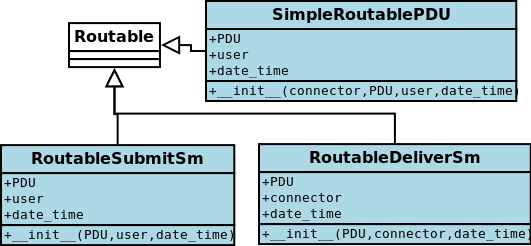
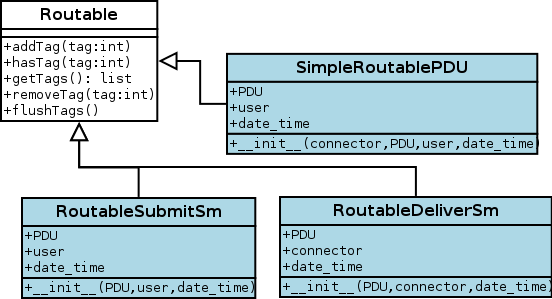
Close #301

diff --git a/misc/doc/sources/routing/index.rst b/misc/doc/sources/routing/index.rst
@@ -20,16 +20,16 @@ Process flow
 .. figure:: /resources/routing/routing-process.png
    :alt: MO and MT routing process flow
    :align: Center
-   
+
    Routing process flow
 
-There's one **MORoutingTable** and one **MTRoutingTable** objects holding respective routes for each direction (MT or MO), 
-these are **Route** objects that hold one or many **Filter** (s) objects and one destination **Connector** (or many connectors 
+There's one **MORoutingTable** and one **MTRoutingTable** objects holding respective routes for each direction (MT or MO),
+these are **Route** objects that hold one or many **Filter** (s) objects and one destination **Connector** (or many connectors
 in some specific cases, c.f. :ref:`Route_multiple_con`).
 
-As explained by the above routing process flow figure, for each message and depending on its direction, a routing table is 
-loaded and an iterative testing is run in order to select a final destination connector or to reject (returning no connector) it, 
-routes are selected in descendant order, and their respective filter objects are tested against the **Routable** object (It is an 
+As explained by the above routing process flow figure, for each message and depending on its direction, a routing table is
+loaded and an iterative testing is run in order to select a final destination connector or to reject (returning no connector) it,
+routes are selected in descendant order, and their respective filter objects are tested against the **Routable** object (It is an
 extension of the low-level SMPP PDU object representing a message, more information in :ref:`Route_Routable`).
 
 Examples
@@ -41,10 +41,10 @@ MO Routing
 Having the below MO routing table set through a jCli console session::
 
    jcli : morouter -l
-   #MO Route order   Type                    Connector ID(s)                  Filter(s)                                                       
-   #30               StaticMORoute           http_3                           <DestinationAddrFilter (dst_addr=^\+33\d+)>                     
+   #MO Route order   Type                    Connector ID(s)                  Filter(s)
+   #30               StaticMORoute           http_3                           <DestinationAddrFilter (dst_addr=^\+33\d+)>
    #20               RandomRoundrobinMORoute http_1, http_2                   <DateIntervalFilter (2015-06-01,2015-08-31)>, <TimeIntervalFilter (08:00:00,18:00:00)>
-   #0                DefaultRoute            http_def                                                                                         
+   #0                DefaultRoute            http_def
    Total MO Routes: 3
 
 The following routing cases are considered:
@@ -67,10 +67,10 @@ MT Routing
 Having the below MT routing table set through a jCli console session::
 
    jcli : mtrouter -l
-   #MT Route order   Type                    Rate    Connector ID(s)                  Filter(s)                                                       
-   #100              RandomRoundrobinMTRoute 0.00    smpp_1, smpp_2                   <DestinationAddrFilter (dst_addr=^\+33\d+)>                     
+   #MT Route order   Type                    Rate    Connector ID(s)                  Filter(s)
+   #100              RandomRoundrobinMTRoute 0.00    smpp_1, smpp_2                   <DestinationAddrFilter (dst_addr=^\+33\d+)>
    #91               StaticMTRoute           0.00    smpp_4                           <GroupFilter (gid=G2)>, <TimeIntervalFilter (08:00:00,18:00:00)>
-   #90               StaticMTRoute           0.00    smpp_3                           <GroupFilter (gid=G2)>                                          
+   #90               StaticMTRoute           0.00    smpp_3                           <GroupFilter (gid=G2)>
    Total MT Routes: 3
 
 The following routing cases are considered:
@@ -93,7 +93,7 @@ The following routing cases are considered:
 
 .. note:: Route's **rate** are discussed in :doc:`/billing/index`.
 
-Router components 
+Router components
 *****************
 
 The router components are mainly python objects having the unique responsibility of routing messages to Jasmin connectors.
@@ -108,14 +108,18 @@ The **Routable** class is extended by child classes to hold necessary informatio
 .. figure:: /resources/routing/Routable.png
    :alt: jasmin.routing.Routables.*
    :align: Center
-   
+
    jasmin.routing.Routables.*
 
-The **SimpleRoutablePDU** is only used for Jasmin unit testing, **RoutableSubmitSm** and **RoutableDeliverSm** are used depending 
+The **SimpleRoutablePDU** is only used for Jasmin unit testing, **RoutableSubmitSm** and **RoutableDeliverSm** are used depending
 on the message direction:
 
 * MO: **RoutableDeliverSm**
 * MT: **RoutableSubmitSm**
+
+All routables provide a tagging api through the *addTag()*, *hasTag()*, *getTags()*, *removeTag()*, *flushTags()* methods,
+this feature is mainly used in the :doc:`interceptor </interception/index>`, there's a concrete example of such usage
+:ref:`here <sc_hlr_lookup>`.
 
 .. list-table:: **RoutableSubmitSm** attributes
    :widths: 10 10 80
@@ -159,21 +163,21 @@ The **Connector** class is extended by child classes to represent concrete HTTP 
 .. figure:: /resources/routing/Connector.png
    :alt: jasmin.routing.jasminApi.Connector and childs
    :align: Center
-   
+
    jasmin.routing.jasminApi.Connector and childs
 
 Filter
 ======
 
-The **Filter** class is extended by child classes to define specific filters which are run by Jasmin router to match a 
-desired **Routable**, every filter have a public **match(routable)** method returning a boolean value (*True* if the filter 
+The **Filter** class is extended by child classes to define specific filters which are run by Jasmin router to match a
+desired **Routable**, every filter have a public **match(routable)** method returning a boolean value (*True* if the filter
 matches the given **Routable**).
 
-As explained, filters provide an advanced and customizable method to match for routables and decide which route to consider, the 
-figure below shows the **Filter** implementations provided by Jasmin, you can extend the **Filter** class and build a new filter 
+As explained, filters provide an advanced and customizable method to match for routables and decide which route to consider, the
+figure below shows the **Filter** implementations provided by Jasmin, you can extend the **Filter** class and build a new filter
 of your own.
 
-The **usedFor** attribute indicates the filter-route compatibility, as some filters are not suitable for both MO and MT routes like 
+The **usedFor** attribute indicates the filter-route compatibility, as some filters are not suitable for both MO and MT routes like
 the examples below:
 
 * **UserFilter** and **GroupFilter**: MO Messages are not identified by a user or a group, they are received through a connector
@@ -182,20 +186,20 @@ the examples below:
 .. figure:: /resources/routing/Filter.png
    :alt: jasmin.routing.Filters.*
    :align: Center
-   
+
    jasmin.routing.Filters.*
 
 Route
 =====
 
-A **Route** class holds one or many filters, the **matchFilters(routable)** method is called to match the given routable against 
-every filter of the **Route** (using *AND* operation when there's many filters), if the matching succeed, the Jamsin router will ask 
+A **Route** class holds one or many filters, the **matchFilters(routable)** method is called to match the given routable against
+every filter of the **Route** (using *AND* operation when there's many filters), if the matching succeed, the Jamsin router will ask
 for the **Connector** to consider by calling **getConnector()** method which will return back the **Route** 's connector.
 
 .. figure:: /resources/routing/Route.png
    :alt: jasmin.routing.Routes.*
    :align: Center
-   
+
    jasmin.routing.Routes.*
 
 Static and default routes are the simplest implemented routes, the difference between them is:
@@ -205,7 +209,7 @@ Static and default routes are the simplest implemented routes, the difference be
 
 There's a lot of things you can do by extending the **Route** class, here's a bunch of possibilities:
 
-* *Failover route*: Will always return the same connector when it is up, and will fail over/back between master and backup connectors depending on 
+* *Failover route*: Will always return the same connector when it is up, and will fail over/back between master and backup connectors depending on
   their status
 * *Best quality routing*: Implement a connector scoring system to always return the best quality route for a given message
 
@@ -214,8 +218,8 @@ There's a lot of things you can do by extending the **Route** class, here's a bu
 Multiple connectors
 -------------------
 
-When extending **Route** class, it is possible to customize the behavior of the route and that's what **RoundrobinMORoute** and **RoundrobinMTRoute** 
-do, they are initially provisioned with a set of connectors, and the **getConnector()** method is overloaded to return a random connector from it; 
+When extending **Route** class, it is possible to customize the behavior of the route and that's what **RoundrobinMORoute** and **RoundrobinMTRoute**
+do, they are initially provisioned with a set of connectors, and the **getConnector()** method is overloaded to return a random connector from it;
 this can be a basic usage of  a load balancer route.
 
 RoutingTable
@@ -228,11 +232,11 @@ The **RoutingTable** class is extended by destination-specific child classes (MO
 * **getAll()**: Will return all the provisioned routes
 * **flush()**: Will remove all provisioned routes
 
-The **getRouteFor(routable)** will get the right route to consider for a given routable, this method will iterate through all the provisioned 
-routes in descendant order to call their respective **matchFilters(routable)** method. 
+The **getRouteFor(routable)** will get the right route to consider for a given routable, this method will iterate through all the provisioned
+routes in descendant order to call their respective **matchFilters(routable)** method.
 
 .. figure:: /resources/routing/RoutingTable.png
    :alt: jasmin.routing.RoutingTables.*
    :align: Center
-   
+
    jasmin.routing.RoutingTables.*

diff --git a/misc/doc/sources/interception/index.rst b/misc/doc/sources/interception/index.rst
@@ -343,6 +343,8 @@ Scripting examples
 
 You'll find below some helping examples of scripts used to intercept MO and/or MT messages.
 
+.. _sc_hlr_lookup:
+
 HLR Lookup routing
 ==================
 
